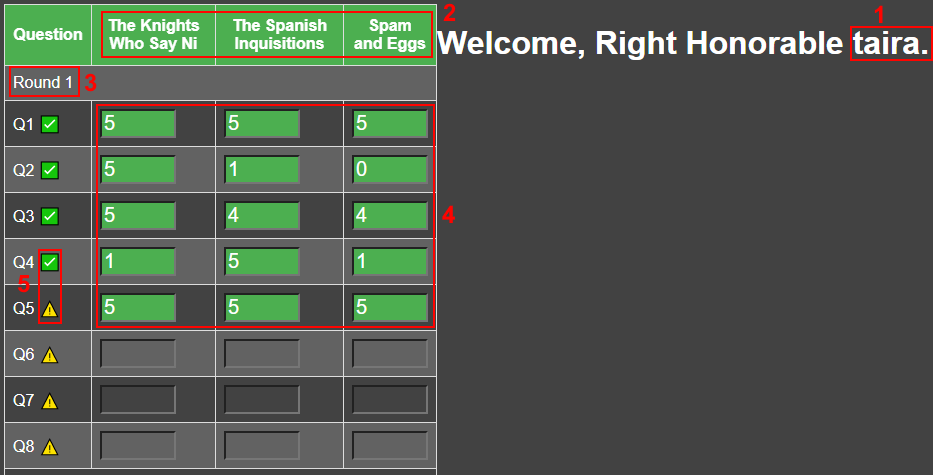
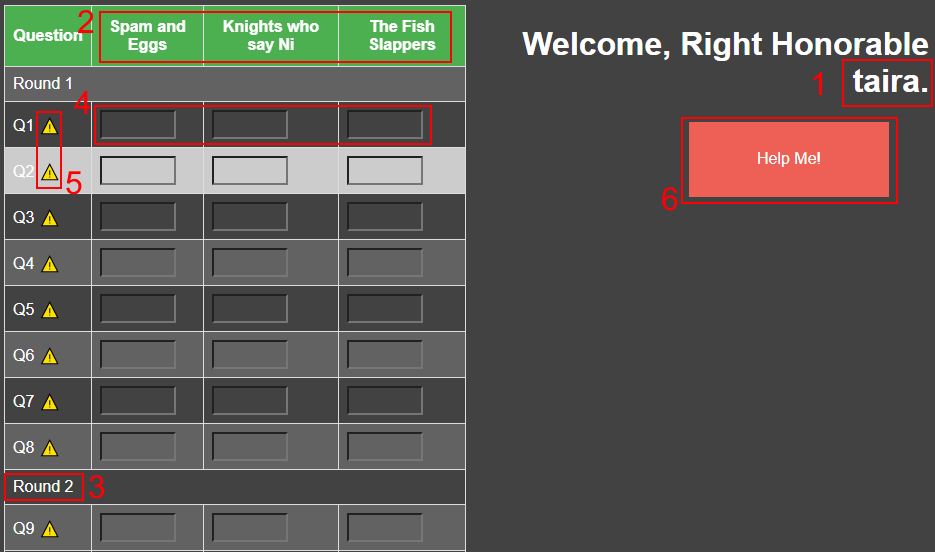
Ver. α 0.41
- Fixed a bug in the judge's page.
- Admin page CSS added.
- Docs updated.

diff --git a/src/www/static/js/judge.js b/src/www/static/js/judge.js
@@ -1,3 +1,9 @@
+function decodeHTML(html) {
+  var txt = document.createElement("textarea");
+  txt.innerHTML = html;
+  return txt.value;
+}
+
 
 // Read and serialize the information from the current table.
 function readTable() {
@@ -64,7 +70,7 @@ function validateScore() {
     for (const [qnumber, answers] of Object.entries(questions)) {
       for (i=1; i<=Object.keys(answers).length; i++) {
         var team = document.getElementById("team_" + i).innerHTML;
-        var box = document.getElementById(team + "_" + qnumber);
+        var box = document.getElementById(decodeHTML(team) + "_" + qnumber);
         if (box.value == "") {
           box.style = "background-color: inherit;";
         } else if (!validScores.includes(box.value)) {
@@ -149,7 +155,12 @@ function heartbeat() {
 
     })
     .catch(function (error) {
-      console.warn("Communication failure:", error);
+      if (error['status'] == 401) {
+        alert("Session has expired. Please log in again.");
+        window.location.replace("/login");
+      } else {
+        alert("Communications failure!");
+      }
     });
 }
 

diff --git a/src/www/static/css/admin.css b/src/www/static/css/admin.css
@@ -3,3 +3,42 @@ table, th, td {
   border-collapse: collapse;
   padding: 3px 3px 3px 3px;
 }
+
+td, th {
+  border: 1px solid #ddd;
+  padding: 8px;
+}
+
+tr:nth-child(even) {
+  background-color: #626262;
+}
+
+tr:nth-child(odd) {
+  background-color: #424242;
+}
+
+tr:hover {
+  background-color: #ccc;
+}
+
+input {
+  background-color: white;
+  color: #424242;
+  font-size: 20px;
+}
+
+body {
+  font-family: Arial, Helvetica;
+  background-color: #424242;
+  color: white;
+}
+
+button {
+  background-color: rgb(131, 52, 235);
+  border: 1px solid white;
+  color: white;
+  padding: 10px 24px;
+  cursor: pointer;
+  width: 10%;
+  display: block;
+}

diff --git a/src/www/static/css/judge.css b/src/www/static/css/judge.css
@@ -21,7 +21,8 @@ tr:hover {
 }
 
 input {
-  color: inherit;
+
+  color: #424242;
   font-size: 20px;
 }
 

diff --git a/docs/JUDGING.md b/docs/JUDGING.md
@@ -13,6 +13,7 @@ The judging system is modeled after Microsoft Excel. It was designed to function
 3. Each round is separated by a spacer.
 4. Scores are entered here.
 5. These icons indicate the status of the question. When all judges have entered an answer for a given question, it will be a green checkmark. Otherwise, it will be a yellow caution sign.
+6. A help button is provided to signal that you need help. If pressed, it sends a signal to whoever is watching the scoring page that you need help.
 
 To score, you must:
 
@@ -21,7 +22,7 @@ To score, you must:
   - That's it.
 
 
-  There is no save button. There's no need for one. The page is in constant communication with the server behind the scenes, so the literal second you enter the score, it has already been saved. There is no need to tally or add up scores either, as the server handles that as well. The hope is that by the end of the night, there will be no scramble to add up the scores and find the winning team. In fact, we should know the winning team as soon as the last score is entered.
+  There is no save button. There's no need for one. The page is in constant communication with the server behind the scenes, so the second you enter the score, it has already been saved. There is no need to tally or add up scores either, as the server handles that as well. The hope is that by the end of the night, there will be no scramble to add up the scores and find the winning team. In fact, we should know the winning team as soon as the last score is entered.
 
 ## A Few Things to Look Out For
 The system is designed to be as automatic and fool proof as it possibly can. That said, there are a few things to keep an eye out for. Though rare, knowing what to do in these situations is critical.

diff --git a/README.md b/README.md
@@ -51,6 +51,10 @@ Totals can be found at `http://host:port/total`. Here, the scores and placements
 - **Can this be used on the internet?** - Alone, no. The normal operating scenario for this system is for it to be running on a server on a LAN only. In other words, this should NOT be used on the internet, as the internal server is not robust enough for that application.
 
 ## Changelog
+* Ver. α 0.41
+  - Fixed a bug which caused the `/judge` page to not work when certain characters are used in team names.
+  - Admin page finally has CSS.
+  - Docs updated.
 * Ver. α 0.4
   - A judge's status now shows on the `/total` page.
     - ⭕ indicates the judge is not logged in, ⚠ indicates a judge needs help, and ✔ indicates they are logged in, and all is good.
